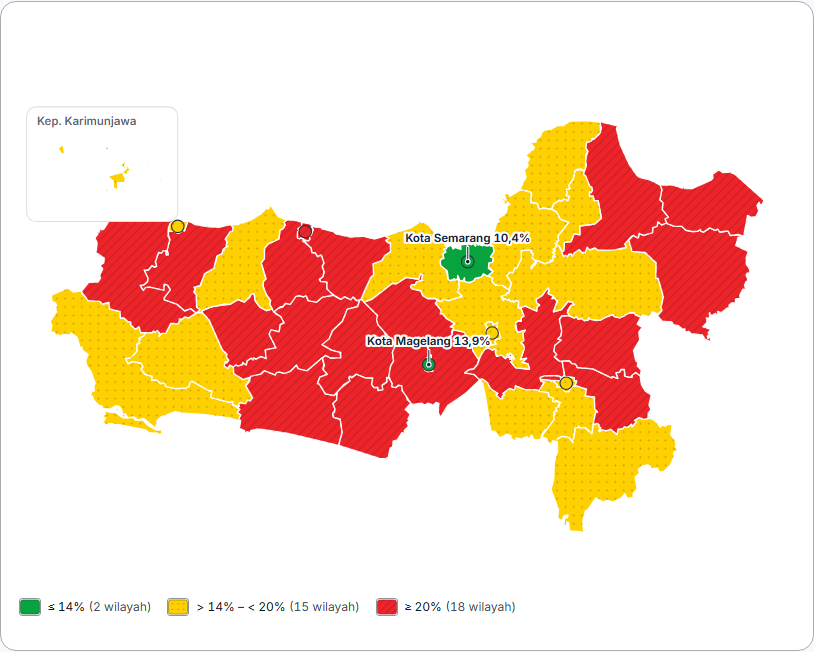
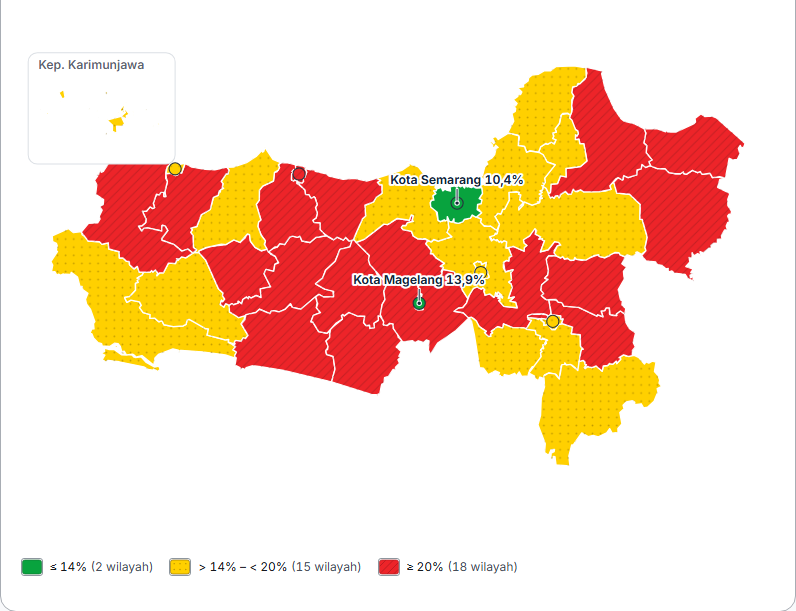
Uji 8 U7: Recapture stimuli without empty heading space or panel links

diff --git a/tests/e2e/uji-stimulus.spec.ts b/tests/e2e/uji-stimulus.spec.ts
@@ -1,19 +1,42 @@
-import { test, expect } from '@playwright/test'
+import { test, expect, type Page } from '@playwright/test'
 
 // Membuat ulang stimulus Level 3 dari dashboard saat ini (tampilan awal: 2022, semua wilayah, tren Rata-rata).
 // Jalankan hanya bila tampilan dashboard berubah:  UJI_STIMULI=1 npx playwright test tests/e2e/uji-stimulus.spec.ts
-// Masking sama dengan tests/e2e/visual-encoding.spec.ts: judul, subjudul, catatan, kontrol, dan anotasi disembunyikan;
-// marks, angka data, sumbu, legenda kategori, dan garis acuan dipertahankan.
-const mask = '.panel h2,.map-heading p,.map-footer h3,.trend-heading p,.scope-note,.map-help,.trend-notes,.table-note,.chart-explanation,.mode-tabs,.trend-selection,.multi-select,.map-controls,.skip-link {visibility:hidden!important} vite-error-overlay {display:none!important}'
+// Anotasi yang menamai metrik (judul, subjudul, nama seri, catatan, link, kontrol) disembunyikan;
+// teks berisi data (marks, label nilai, label wilayah, sumbu, legenda kategori, garis acuan 14%, inset Karimunjawa) dipertahankan.
+const hidden = '.panel h2,.map-heading p,.map-footer h3,.trend-heading p,.scope-note,.map-help,.trend-notes,.table-note,.chart-explanation,.mode-tabs,.trend-selection,.multi-select,.map-controls,.skip-link,.panel-link,.series-legend {visibility:hidden!important} vite-error-overlay {display:none!important}'
+// Baris judul/kontrol yang hanya menyisakan ruang kosong dihapus dari tata letak, khusus saat capture.
+// Hanya untuk panel yang ukuran SVG-nya tidak berubah karenanya; peta ikut membesar bila judulnya dihapus,
+// sehingga peta tetap memakai visibility:hidden dan screenshot-nya dipotong mulai dari kanvas peta.
+const removed = '.comparison-heading,.trend-heading,.series-legend,.trend-notes {display:none!important}'
+const panels = [
+  { file: 'batang', panel: '.comparison-panel', chart: '.comparison-panel svg.recharts-surface', clipFrom: null },
+  { file: 'tren', panel: '.trend-panel', chart: '.trend-panel svg.recharts-surface', clipFrom: null },
+  { file: 'peta', panel: '.map-panel', chart: '.map-canvas > svg', clipFrom: '.map-canvas' },
+]
+
+const size = async (page: Page, selector: string) => {
+  const box = (await page.locator(selector).first().boundingBox())!
+  return { width: Math.round(box.width * 10) / 10, height: Math.round(box.height * 10) / 10 }
+}
 
 test('capture masked stimuli for the Level 3 test form', async ({ page }) => {
   test.skip(!process.env.UJI_STIMULI, 'Set UJI_STIMULI=1 to regenerate docs/pengujian/stimulus')
   await page.goto('/')
   await expect(page.locator('[data-region]')).toHaveCount(35)
   await page.evaluate(() => document.fonts.ready)
-  await page.addStyleTag({ content: mask })
   await page.mouse.move(0, 0)
-  for (const [file, selector] of [['peta', '.map-panel'], ['batang', '.comparison-panel'], ['tren', '.trend-panel']]) {
-    await page.locator(selector).screenshot({ path: `docs/pengujian/stimulus/${file}.png`, animations: 'disabled' })
+  const normal = await Promise.all(panels.map(item => size(page, item.chart)))
+  await page.addStyleTag({ content: hidden })
+  await page.addStyleTag({ content: removed })
+  for (const [i, item] of panels.entries()) {
+    // Area grafik di stimulus harus sama persis dengan render normal tanpa mask.
+    expect(await size(page, item.chart), item.file).toEqual(normal[i])
+    const target = page.locator(item.panel)
+    if (!item.clipFrom) { await target.screenshot({ path: `docs/pengujian/stimulus/${item.file}.png`, animations: 'disabled' }); continue }
+    await target.scrollIntoViewIfNeeded()
+    const panel = (await target.boundingBox())!
+    const top = (await page.locator(item.clipFrom).boundingBox())!.y
+    await page.screenshot({ path: `docs/pengujian/stimulus/${item.file}.png`, animations: 'disabled', clip: { x: panel.x, y: top, width: panel.width, height: panel.y + panel.height - top } })
   }
 })

diff --git a/src/uji/content.ts b/src/uji/content.ts
@@ -1,6 +1,6 @@
 // Isi instrumen uji (Munzner Level 3 dan 4). Satu-satunya sumber teks pertanyaan, opsi, kunci, dan skenario;
 // docs/pengujian/INSTRUMEN_UJI.md menyalin isi ini untuk dokumen yang diunggah ke Google Drive.
-// Stimulus diambil dari dashboard saat ini dengan judul disamarkan: tests/e2e/uji-stimulus.spec.ts.
+// Stimulus diambil dari dashboard saat ini dengan judul disamarkan: tests/e2e/uji-stimulus.spec.ts. width/height = ukuran PNG.
 import mapImg from '../../docs/pengujian/stimulus/peta.png'
 import barImg from '../../docs/pengujian/stimulus/batang.png'
 import trendImg from '../../docs/pengujian/stimulus/tren.png'
@@ -39,13 +39,13 @@ export const CBQ: Record<CbqId, { tag: string; text: string }> = {
 
 export interface Diagram { id: DiagramId; idiom: string; img: string; width: number; height: number; key: { kpi: KpiId; cbq: CbqId }; question: Record<Persona, string> }
 export const DIAGRAMS: Diagram[] = [
-  { id: 'D1', idiom: 'Choropleth Map (Peta Sebaran)', img: mapImg, width: 814, height: 652, key: { kpi: 'KPI-1', cbq: 'CBQ-1' }, question: {
+  { id: 'D1', idiom: 'Choropleth Map (Peta Sebaran)', img: mapImg, width: 796, height: 611, key: { kpi: 'KPI-1', cbq: 'CBQ-1' }, question: {
     A: 'Berdasarkan pola gradasi warna spasial pada peta ini, indikator pemantauan dan keputusan alokasi intervensi apa yang sedang ditunjukkan?',
     B: 'Melihat perbedaan warna antarwilayah pada peta ini, informasi kondisi apa yang paling tepat digambarkan?' } },
-  { id: 'D2', idiom: 'Line Trend (Grafik Tren)', img: trendImg, width: 1628, height: 514, key: { kpi: 'KPI-2', cbq: 'CBQ-2' }, question: {
+  { id: 'D2', idiom: 'Line Trend (Grafik Tren)', img: trendImg, width: 1608, height: 418, key: { kpi: 'KPI-2', cbq: 'CBQ-2' }, question: {
     A: 'Berdasarkan pergerakan garis deret waktu ini, evaluasi kinerja antarperiode apa yang harus Anda laporkan?',
     B: 'Melihat naik-turunnya garis dari tahun ke tahun pada grafik ini, perubahan kondisi apa yang sedang terjadi?' } },
-  { id: 'D3', idiom: 'Horizontal Bar (Diagram Batang)', img: barImg, width: 799, height: 184, key: { kpi: 'KPI-3', cbq: 'CBQ-3' }, question: {
+  { id: 'D3', idiom: 'Horizontal Bar (Diagram Batang)', img: barImg, width: 796, height: 111, key: { kpi: 'KPI-3', cbq: 'CBQ-3' }, question: {
     A: 'Berdasarkan perbandingan panjang batang horizontal ini, prioritas distribusi intervensi untuk kelompok wilayah mana yang sedang dianalisis?',
     B: 'Melihat panjang batang dari atas ke bawah ini, perbandingan apa yang sedang ditampilkan?' } },
 ]
